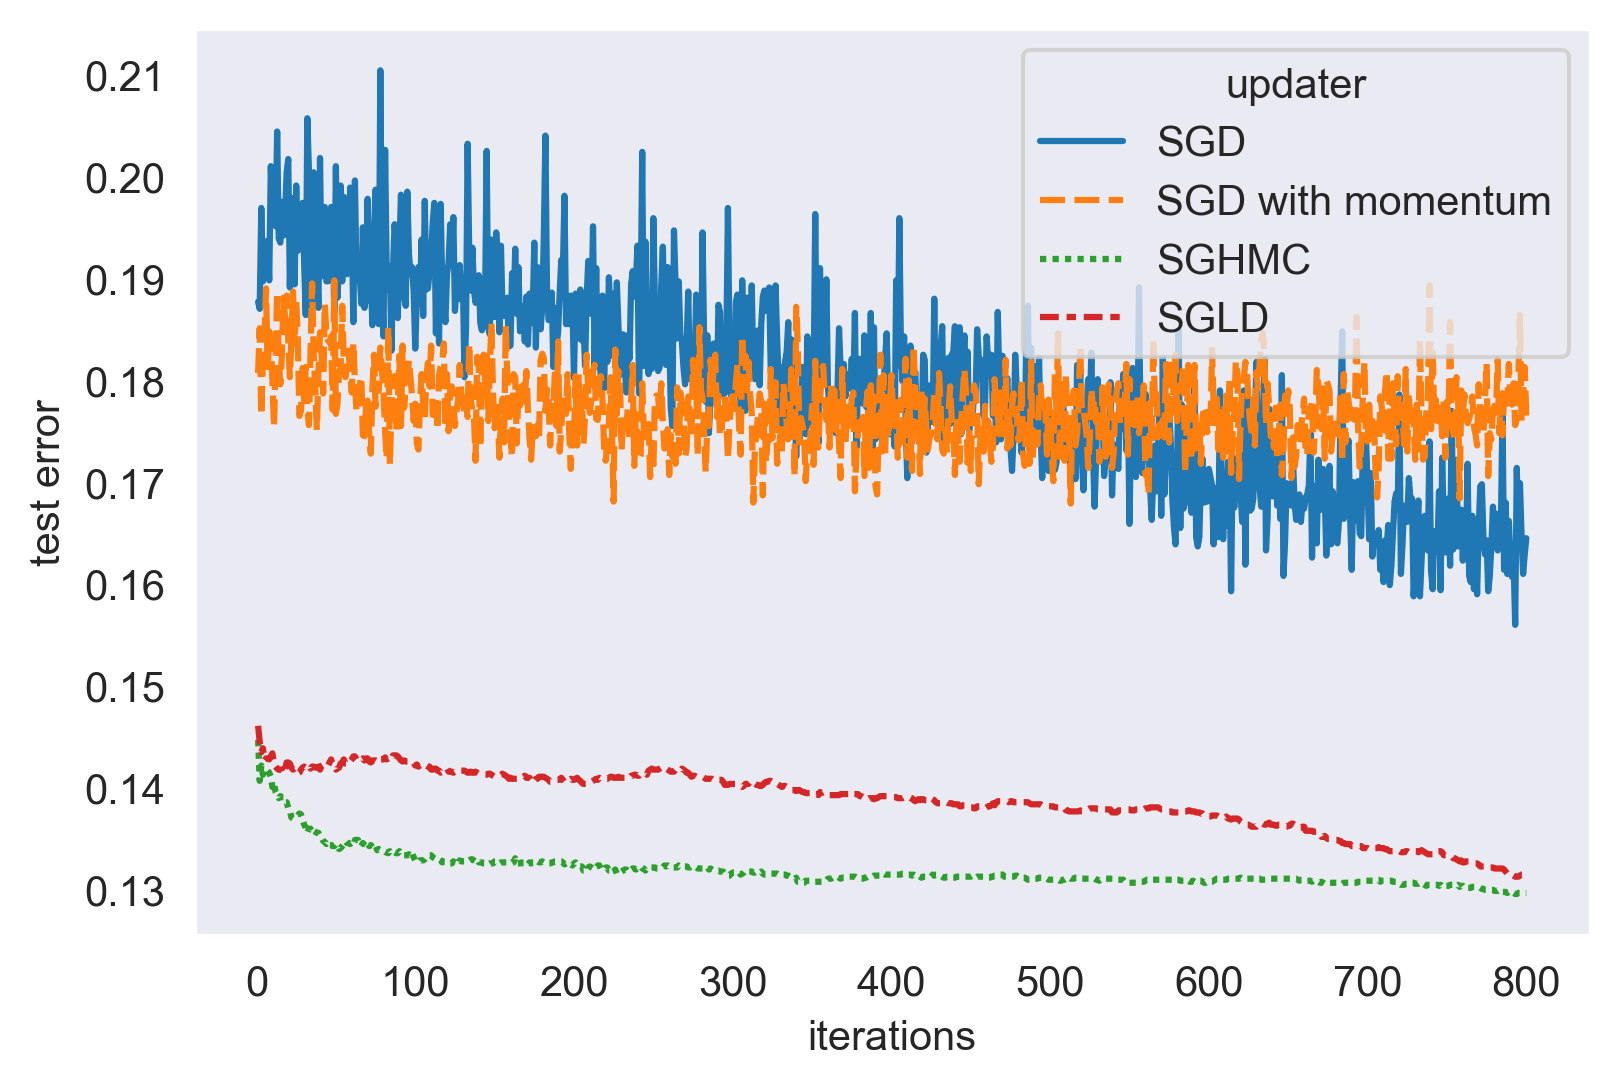
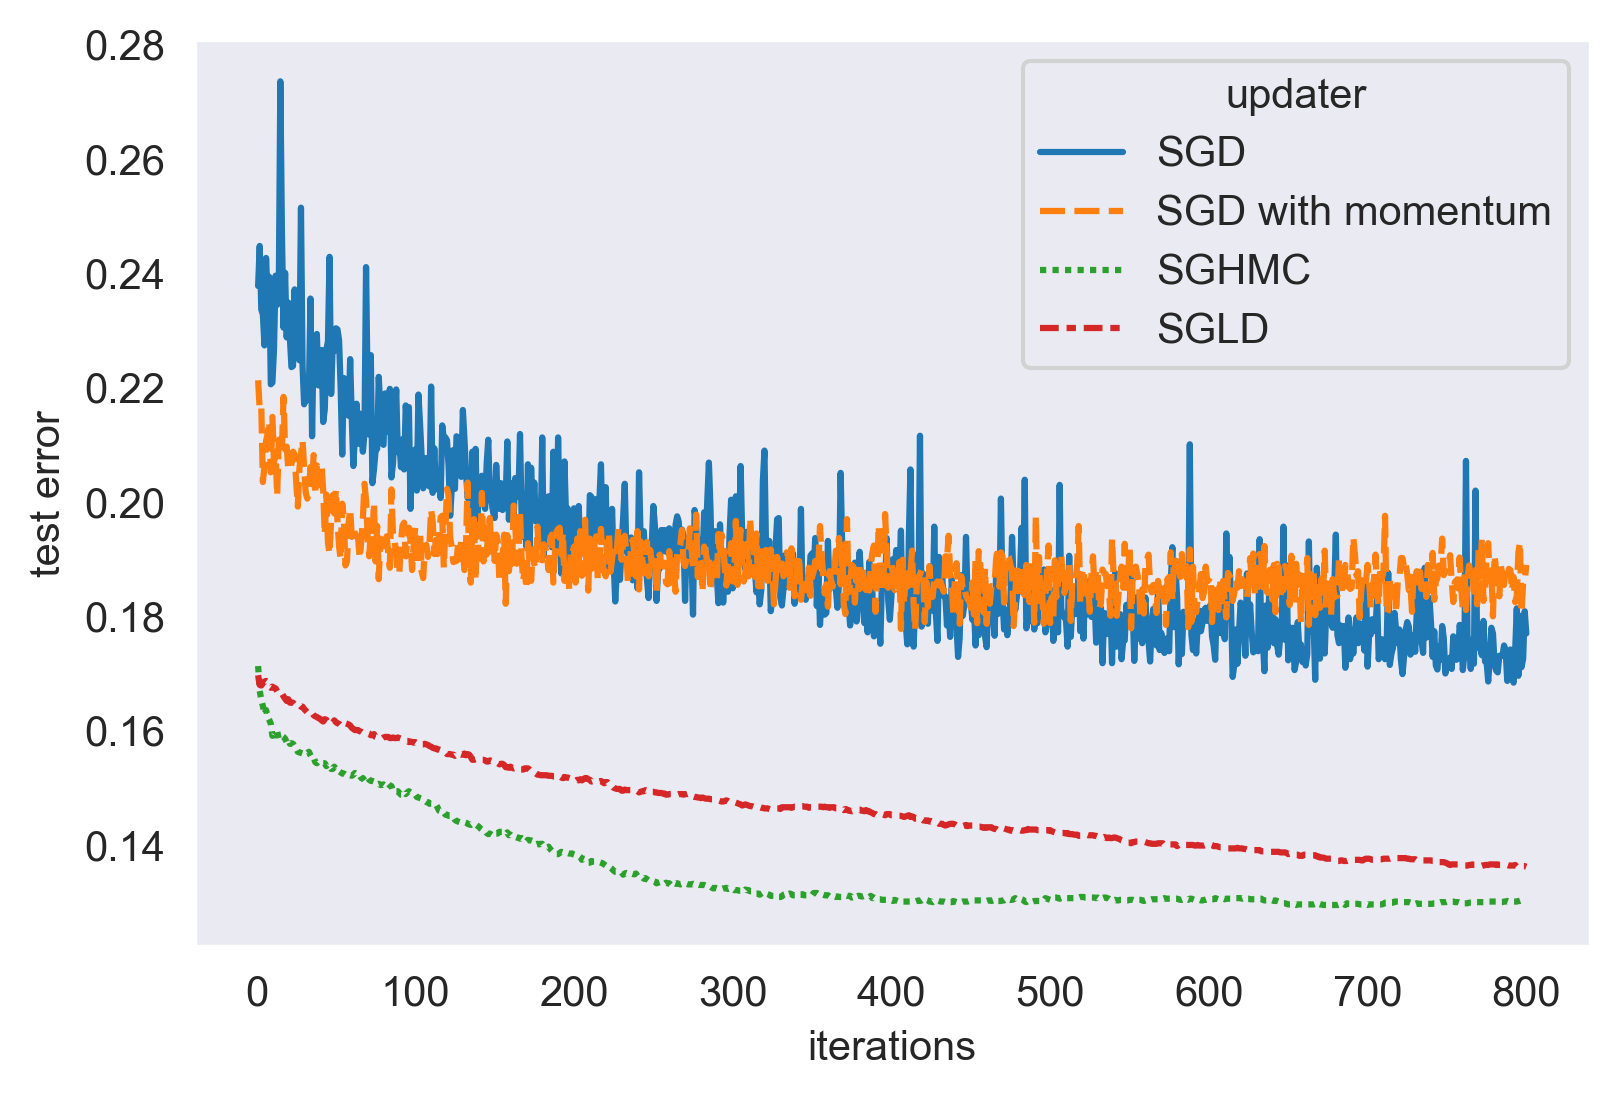
updates to repo

diff --git a/kernel/sgd.py b/kernel/sgd.py
@@ -31,7 +31,7 @@ class SGD(MCMCKernel):
     with_momentum : bool, default=False
         Use Nesterov's momentum during parameter updates
 
-    momentum_decay : float, default=0.75
+    momentum_decay : float, default=0.01
         Momentum hyperparameter indicting how much to weight momentum in favor of gradient
     """
 
@@ -41,8 +41,8 @@ class SGD(MCMCKernel):
                  batch_size=5, 
                  learning_rate=0.1, 
                  weight_decay=0.0,
-                 with_momentum=True,
-                 momentum_decay=0.75):
+                 with_momentum=False,
+                 momentum_decay=0.01):
 
         self.model = model
         self.subsample_positions = subsample_positions

diff --git a/kernel/sgnuts.py b/kernel/sgnuts.py
@@ -1,3 +1,6 @@
+# Pyro source code modified from
+#https://docs.pyro.ai/en/stable/_modules/pyro/infer/mcmc/nuts.html
+
 # Copyright (c) 2017-2019 Uber Technologies, Inc.
 # SPDX-License-Identifier: Apache-2.0
 

diff --git a/kernel/utils/main.py b/kernel/utils/main.py
@@ -1,3 +1,6 @@
+# Pyro source code modified from
+#https://docs.pyro.ai/en/stable/_modules/pyro/infer/mcmc/util.html
+
 # Copyright (c) 2017-2019 Uber Technologies, Inc.
 # SPDX-License-Identifier: Apache-2.0
 
